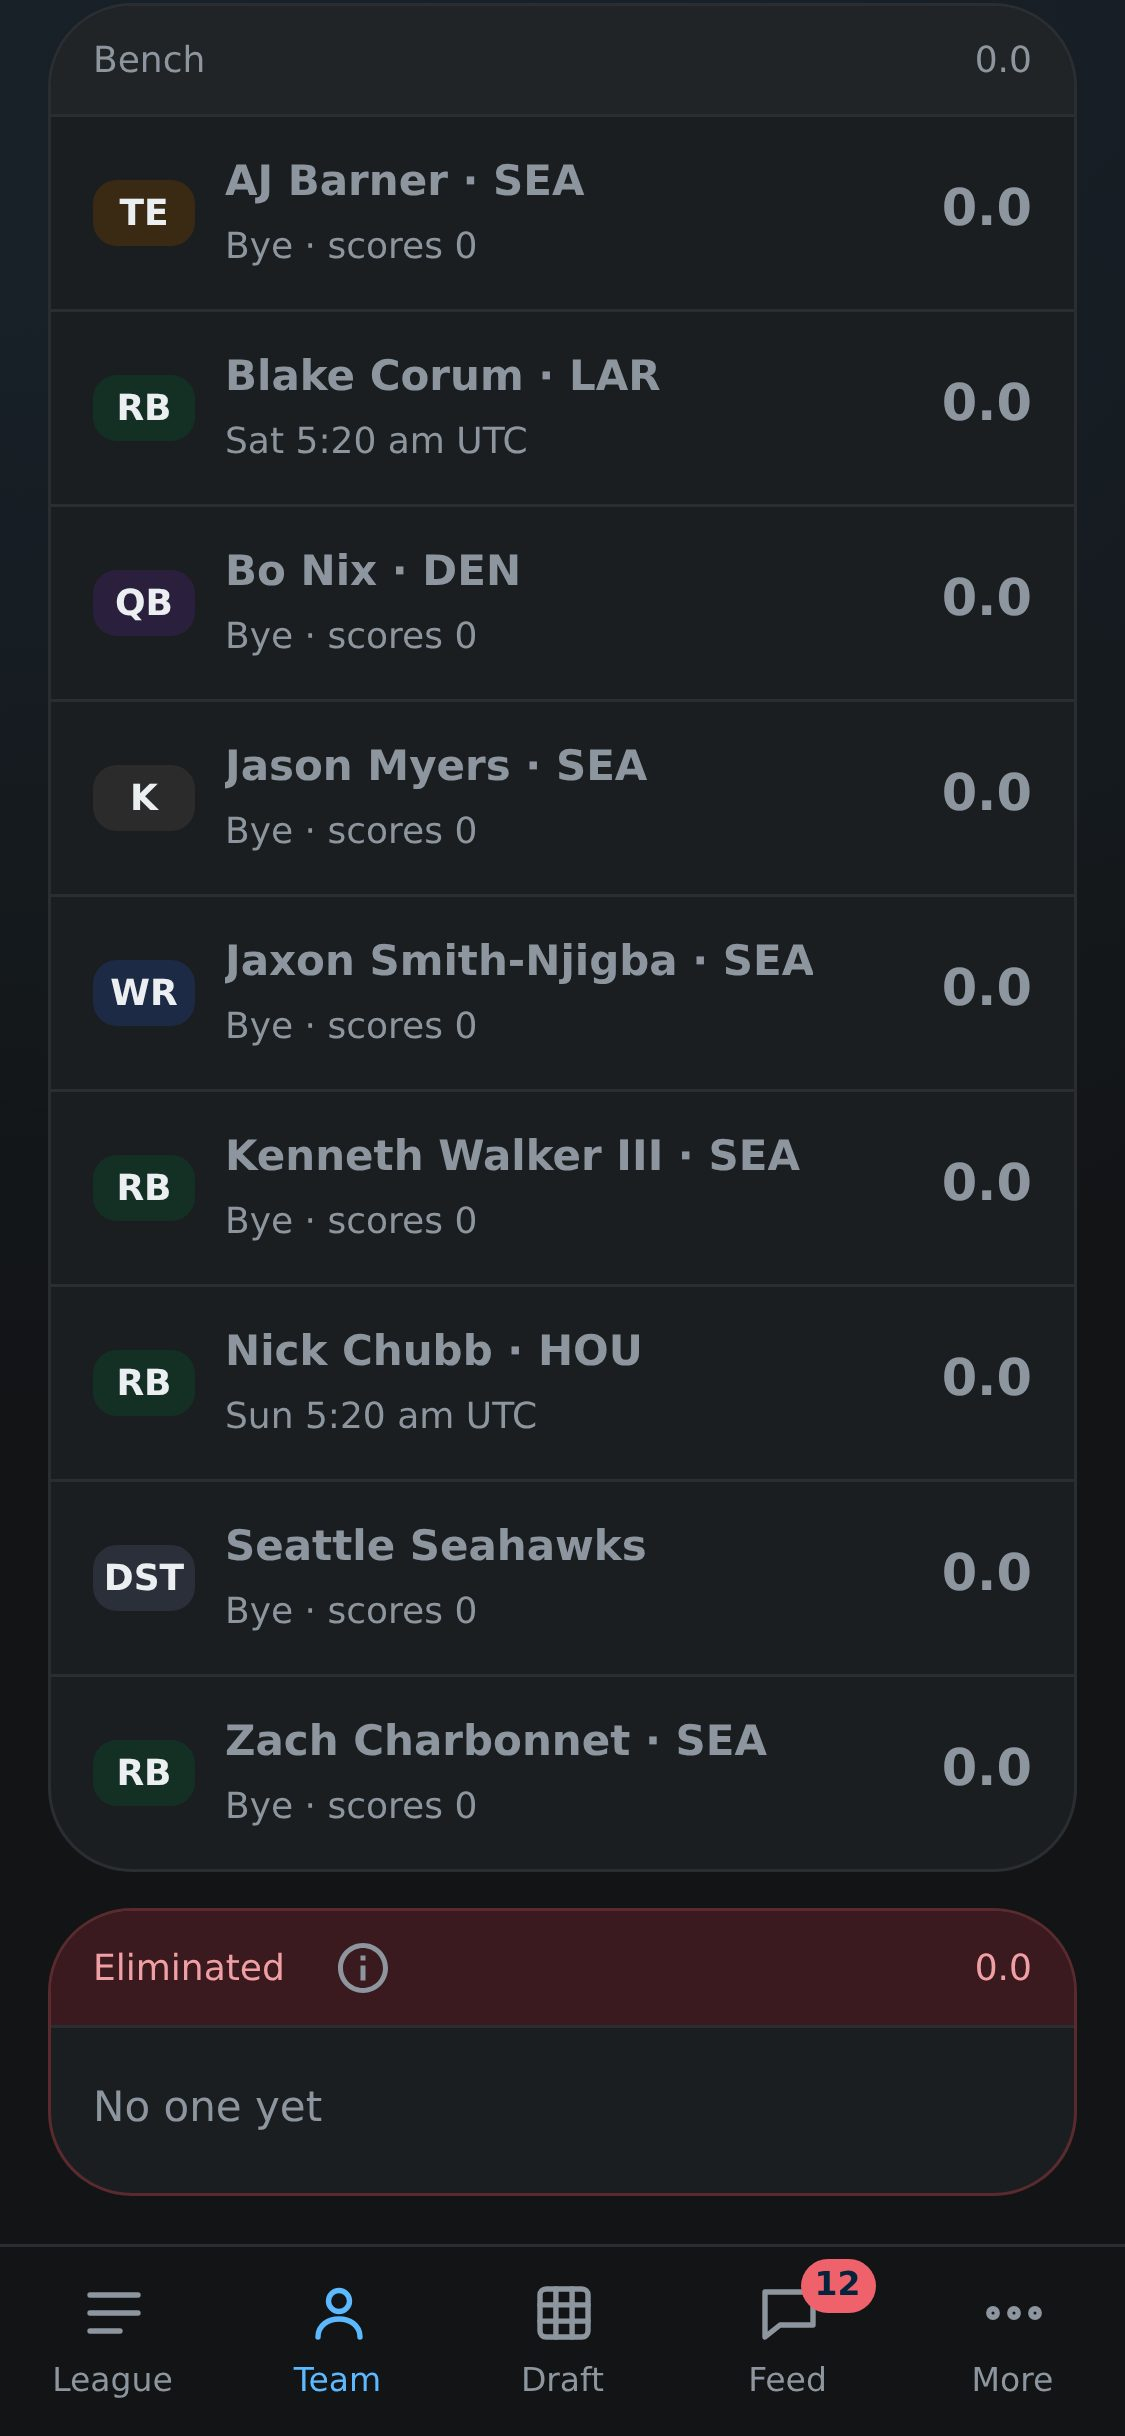
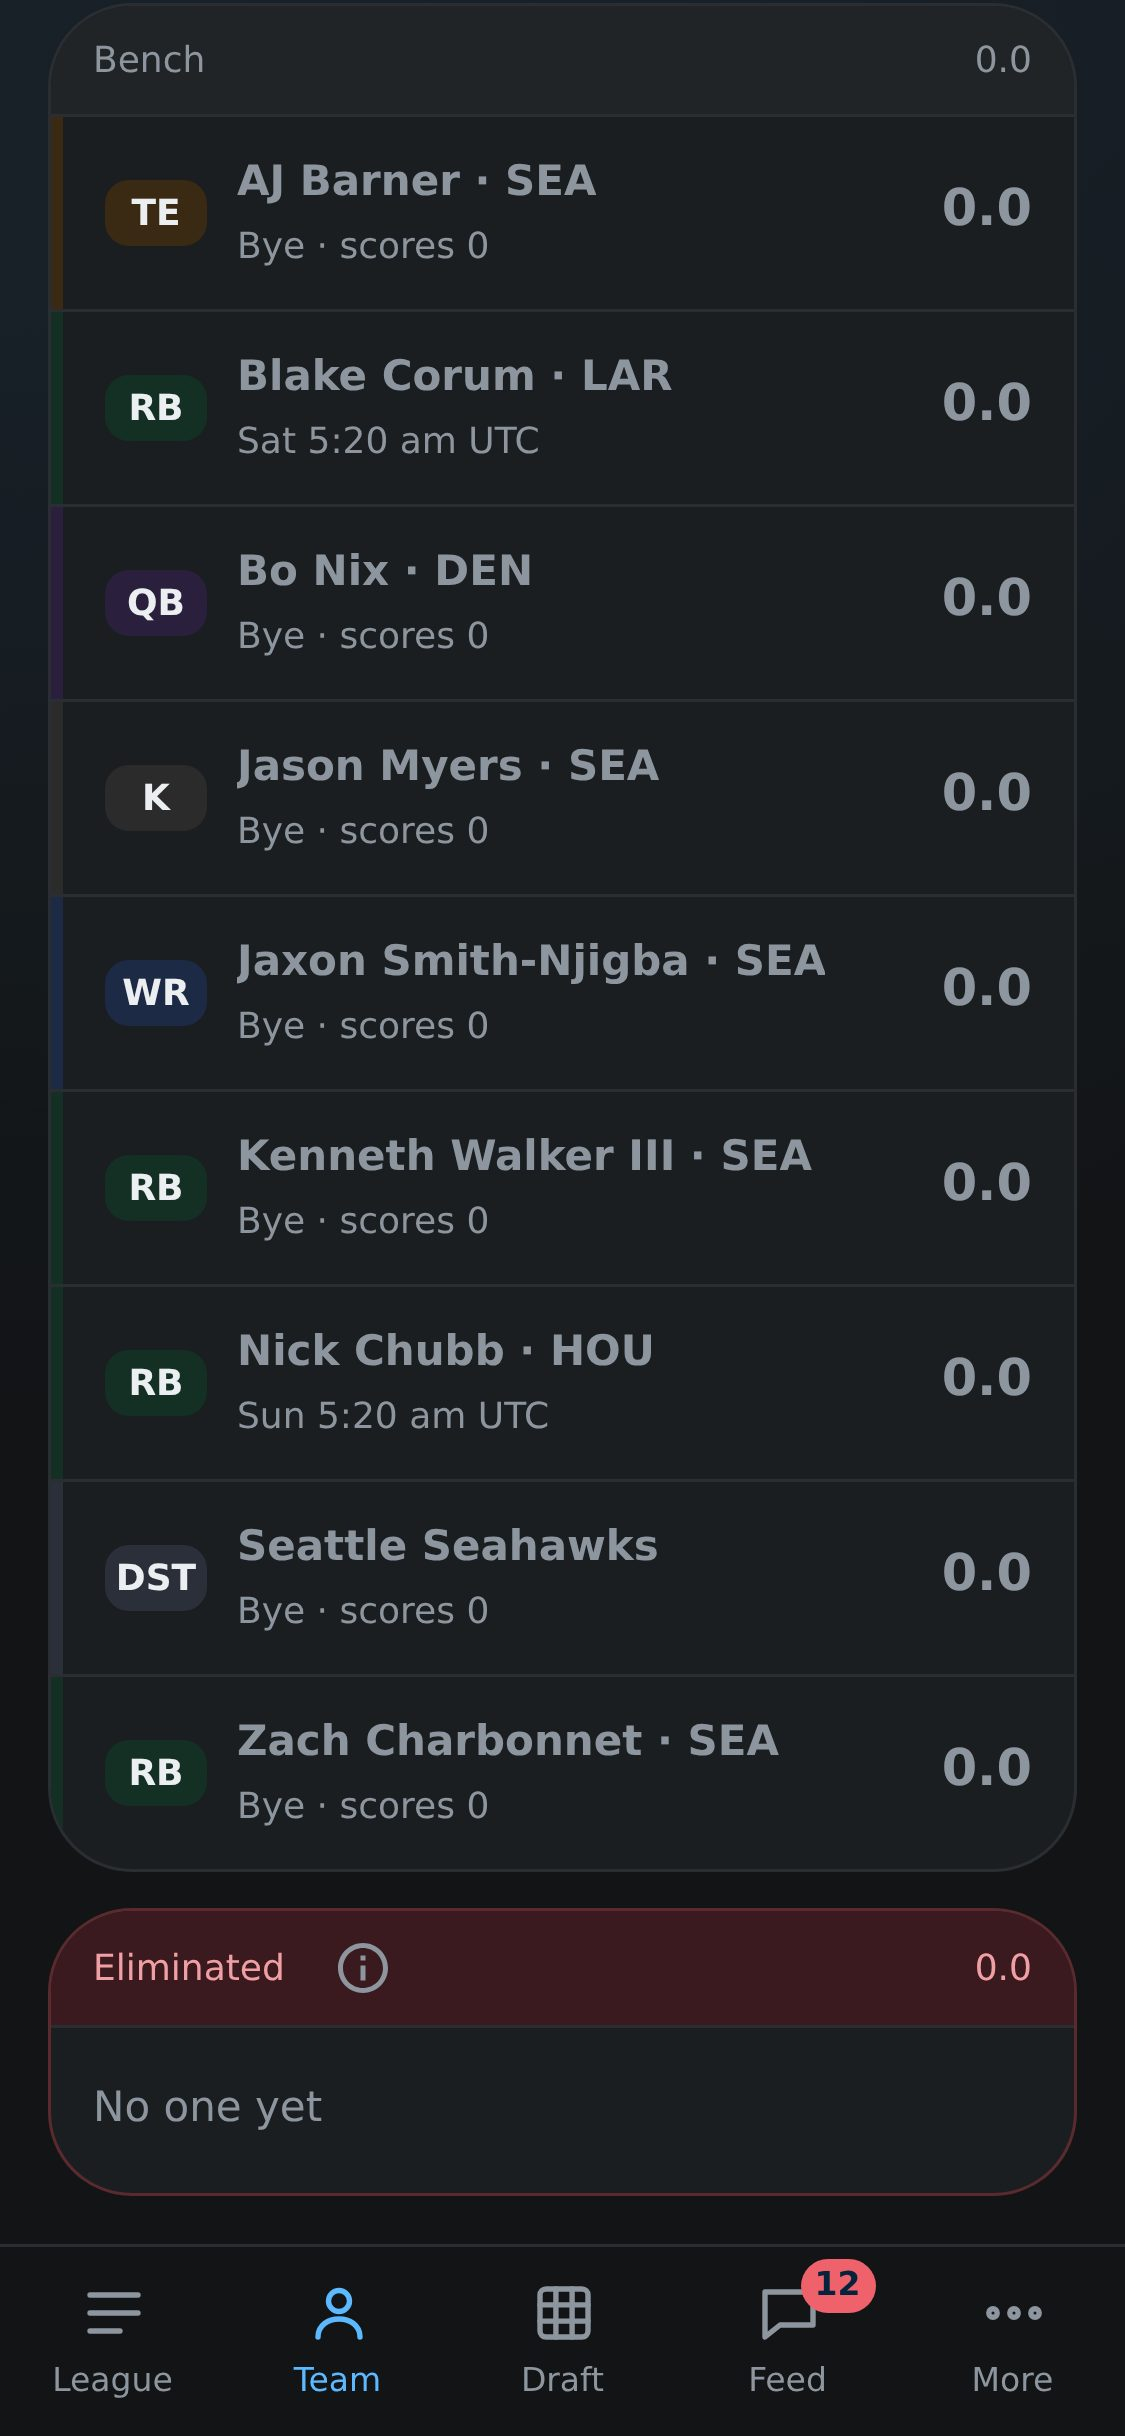
Team page: position boxes on every lineup row and a matching left edge (#528)
Closes #527.

diff --git a/frontend/src/components/team/PlayerRow.tsx b/frontend/src/components/team/PlayerRow.tsx
@@ -6,7 +6,7 @@ import ChangedScore from "../activity/ChangedScore";
 import SlotMarker from "../activity/SlotMarker";
 import HelpTip from "../common/HelpTip";
 import InjuryTag from "../common/InjuryTag";
-import { positionChipSx } from "../draft/positions";
+import { positionChipSx, positionColor } from "../draft/positions";
 import { formatPoints } from "../league/standingsView";
 import { nameWithTeam, playerDetail, type RowState, rowState } from "./lineupView";
 
@@ -63,6 +63,7 @@ const PlayerRow = ({
           display: "flex",
           alignItems: "center",
           bgcolor: eliminated ? tokens.dangerSurface : "transparent",
+          borderLeft: `4px solid ${player && !eliminated ? positionColor(player.position) : "transparent"}`,
         }}
       >
         <ButtonBase
@@ -101,8 +102,8 @@ const PlayerRow = ({
               fontSize: 12,
               textAlign: "center",
               color: player ? colors.label : tokens.muted,
-              ...(player && !eliminated
-                ? { ...positionChipSx(player.position), px: 0, py: 0.25 }
+              ...(!eliminated
+                ? { ...positionChipSx(player ? player.position : label), px: 0, py: 0.25 }
                 : {}),
             }}
           >
